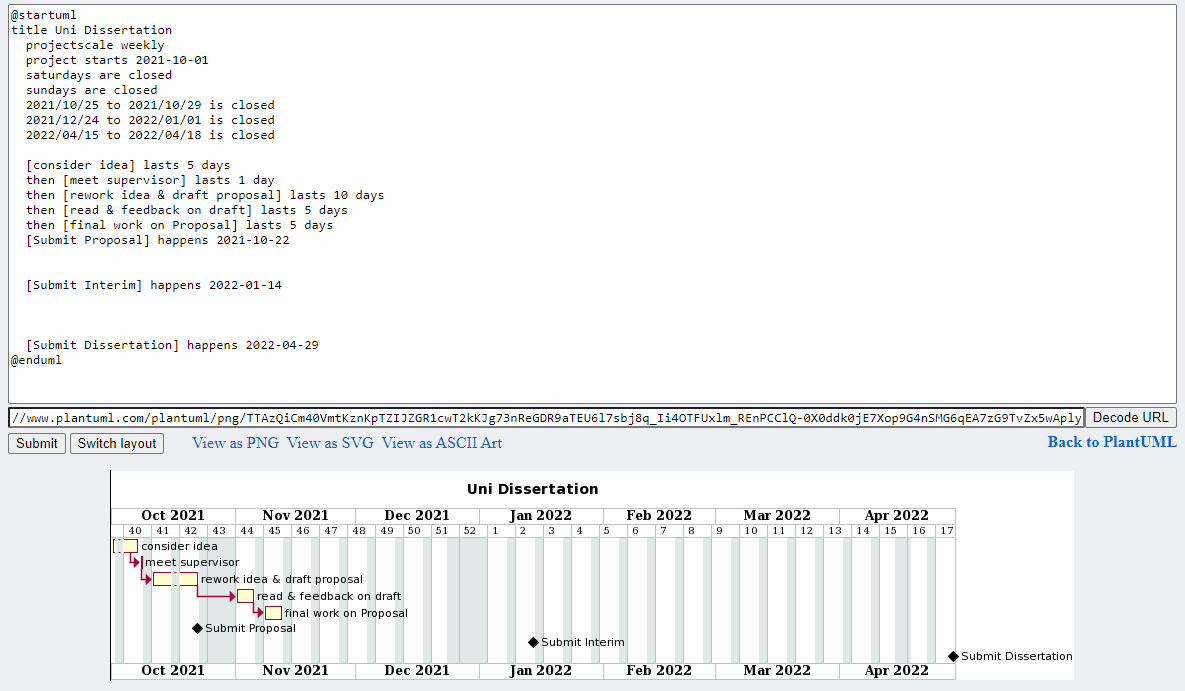
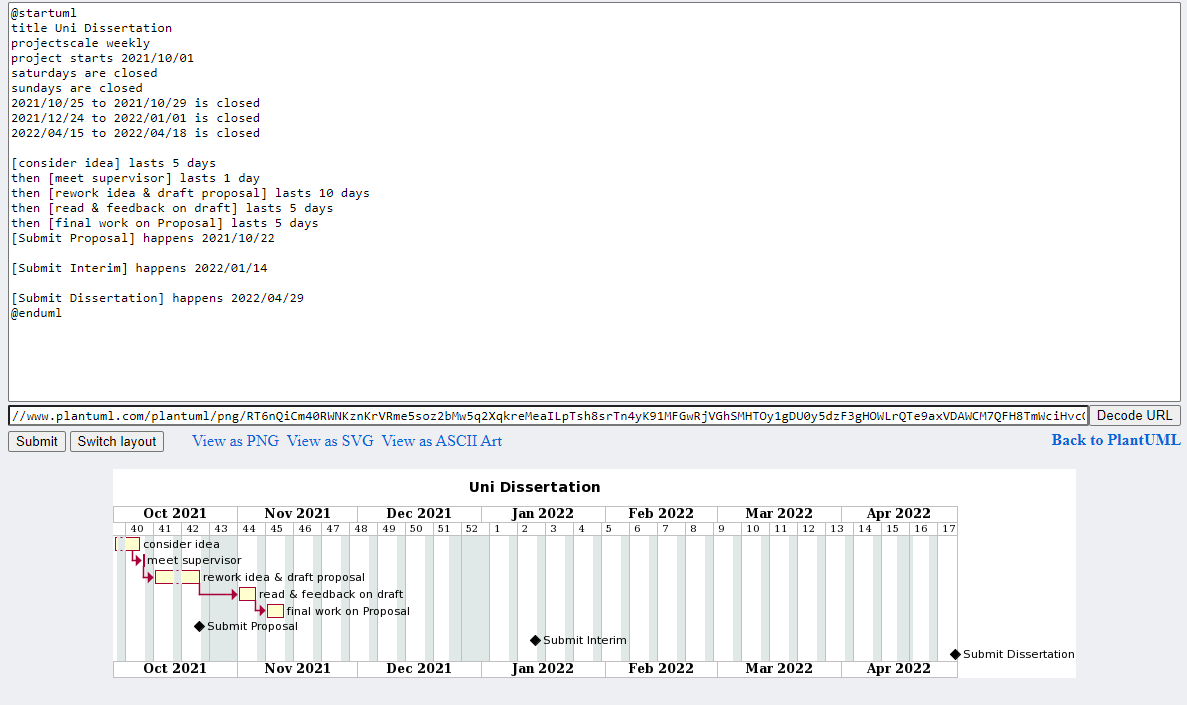
ran hugo to reflect change

Changed region(s): [[0.0, 0.4863, 0.9992, 1.0], [0.0, 0.0, 0.3122, 0.4559], [0.9679, 0.0, 0.9992, 0.0304]]

diff --git a/public/posts/make-a-plan/index.html b/public/posts/make-a-plan/index.html
@@ -112,7 +112,7 @@
     },
     "headline": "Make A Plan | upyesp","datePublished": "2021-10-18T07:00:00+01:00",
     "dateModified": "2021-10-18T07:00:00+01:00",
-    "wordCount":  909 ,
+    "wordCount":  917 ,
     "publisher": {
         "@type": "Person",
         "name": "upyesp",
@@ -327,6 +327,8 @@ sundays are closed
 
 [Submit Interim] happens 2022/01/14
 
+[Ethics Deadline] happens 2022/01/21
+
 [Submit Dissertation] happens 2022/04/29
 @enduml
 </code></pre></div><p>Save your plan.</p>
@@ -349,6 +351,8 @@ then [final work on Proposal] lasts 5 days
 [Submit Proposal] happens 2021/10/22
 
 [Submit Interim] happens 2022/01/14
+
+[Ethics Deadline] happens 2022/01/21
 
 [Submit Dissertation] happens 2022/04/29
 @enduml
